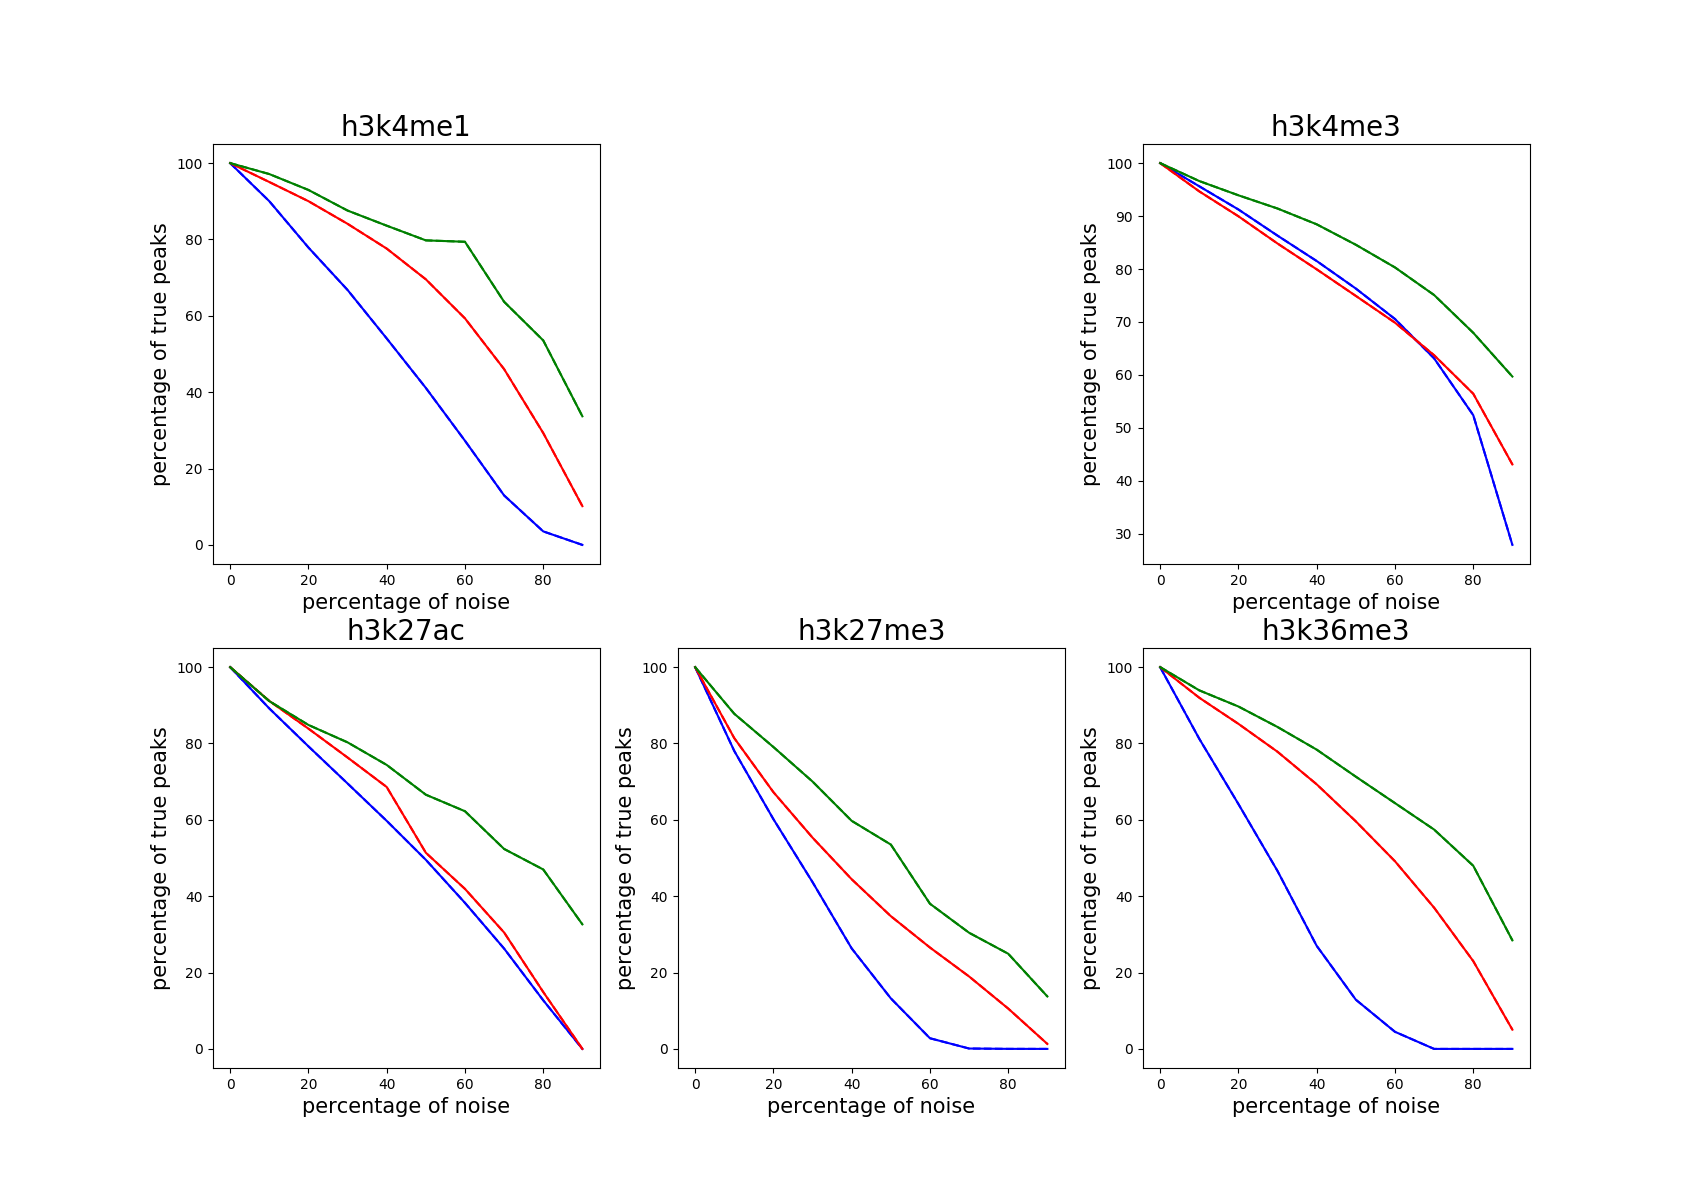
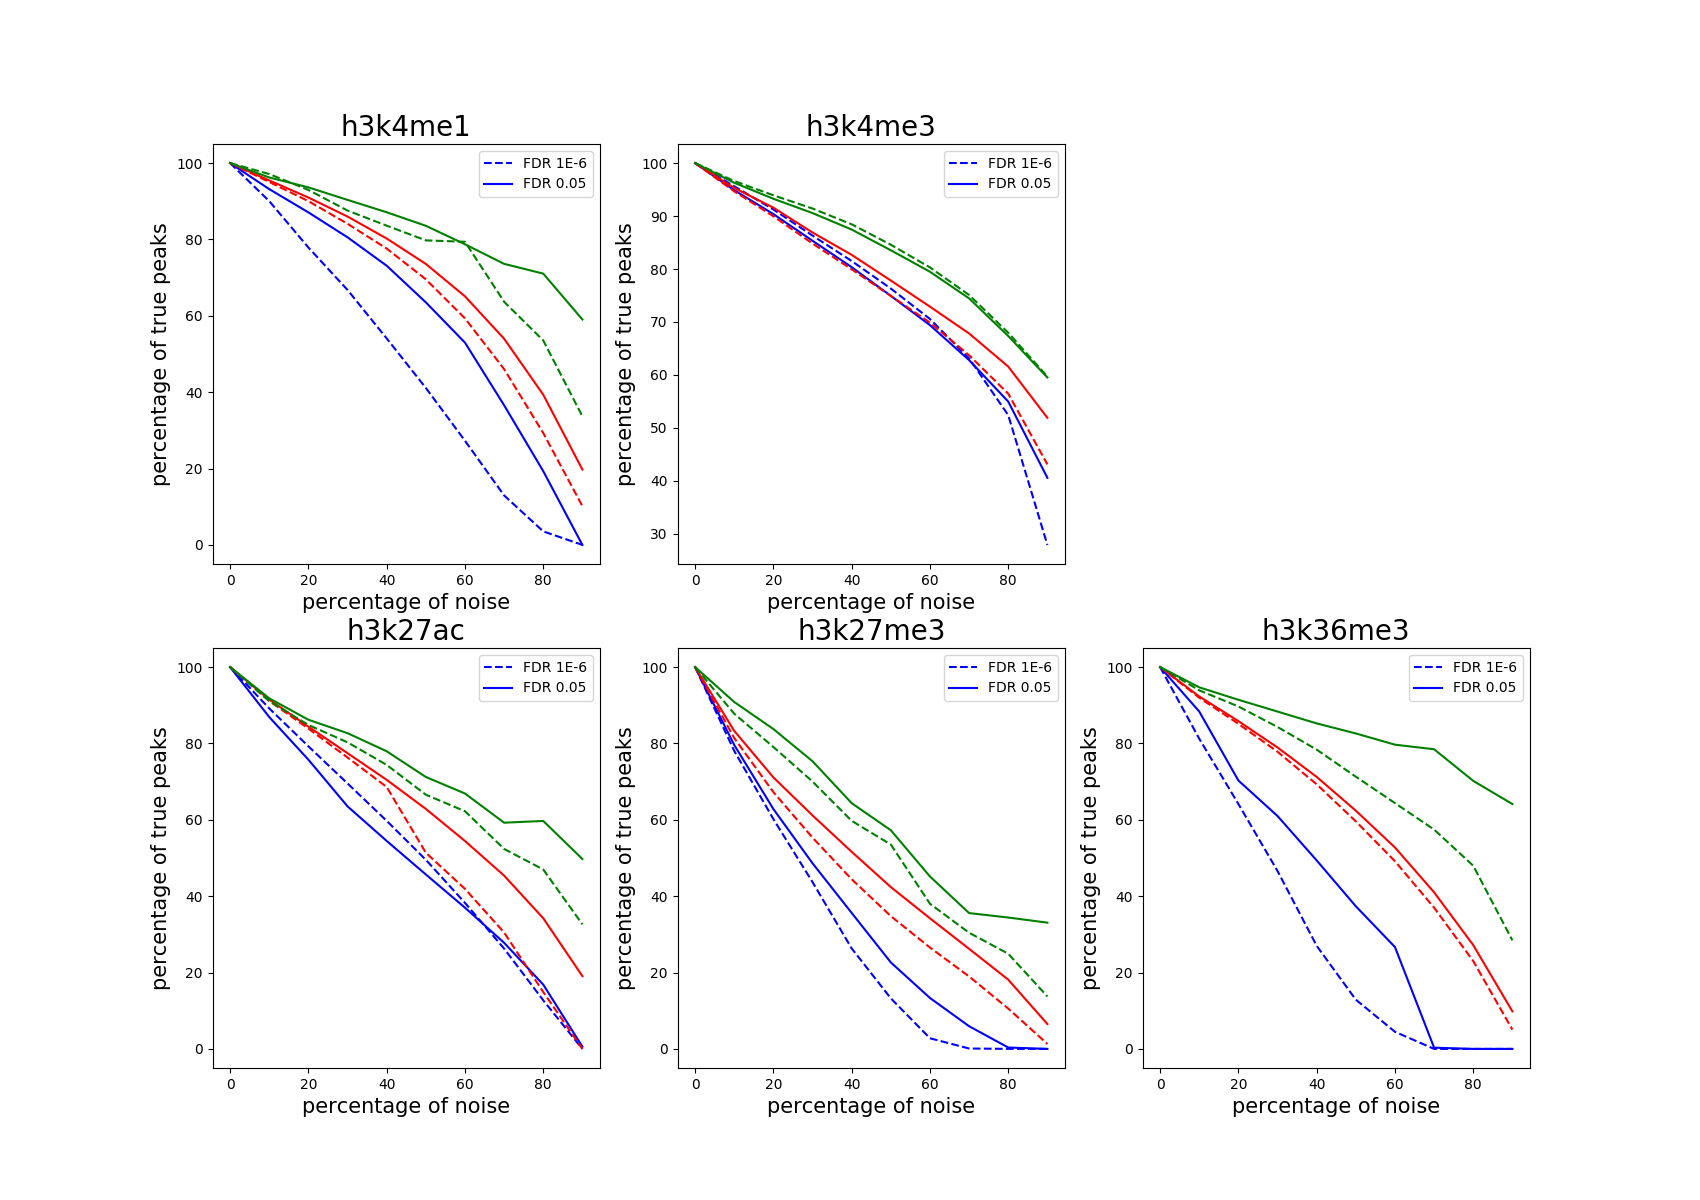
fix missing fdr line

diff --git a/scripts/result_visualization.py b/scripts/result_visualization.py
@@ -7,7 +7,6 @@ import numpy as np
 alg_s = AlgorithmsStats()
 histones = ['h3k4me1', 'h3k4me3', 'h3k27ac', 'h3k27me3', 'h3k36me3']
 fdrs = ['FDR 1E-6', 'FDR 0.05']
-fdr_lines = ['--', '-']
 algorithms = ['macs2', 'sicer', 'span']
 alg_colors = ['b', 'r', 'g']
 
@@ -53,17 +52,19 @@ def plot_true_peaks_comparison():
     # draw plot of changing percentage of true peaks in algorithms output
     plt.figure(figsize=(17, 12))
     i = 1
-    subplot_grid = (len(histones) // 3 + 1) * 100 + 30
+    subplot_grid = 230
     for h in histones:
         plt.subplot(subplot_grid + i)
         i += 1
-        if i == len(histones) % 3:
+        if i == 3:
             i += 1
             
         for alg, c in zip(algorithms, alg_colors):
-            for fdr, linestyle in zip(fdrs, fdr_lines):
-                plt.plot([i * 10 for i in range(10)], alg_s.pc_stability_data[fdrs[0]][alg][h],
+            for fdr, linestyle in zip(fdrs, ['--', '-']):
+                plt.plot([i * 10 for i in range(10)], alg_s.pc_stability_data[fdr][alg][h],
                         linestyle=linestyle, c=c)
+            if alg == algorithms[0]:
+                plt.legend(fdrs)
        
         plt.title(f'{h}', fontsize=20)
         plt.ylabel('percentage of true peaks', fontsize=15)
@@ -74,8 +75,8 @@ def plot_true_peaks_comparison():
 def plot_peak_set_comparison(fdr):
     # compare the set of peaks from different algorithms
     plt.figure(figsize=(20, 12))
-    n = (3 - (len(histones) % 3)) % 3  + 1
-    subplot_grid = (len(histones) // 3 + 1) * 100 + 30
+    n = 2
+    subplot_grid = 230
     for h in histones:
         plt.subplot(subplot_grid + n)
         n += 1
@@ -102,12 +103,8 @@ def plot_peak_set_comparison(fdr):
     
 
 if __name__ == "__main__":
+    plot_true_peaks_comparison()
     ind = [i for i in range(7)]
     for fdr, path_dict in zip(fdrs, [fdr_05_path, fdr_e6_path]):
         plot_peaks_dynamics(path_dict, ind, fdr)
         plot_peak_set_comparison(fdr)
-        
-    plot_true_peaks_comparison()
-        
-    
-        
